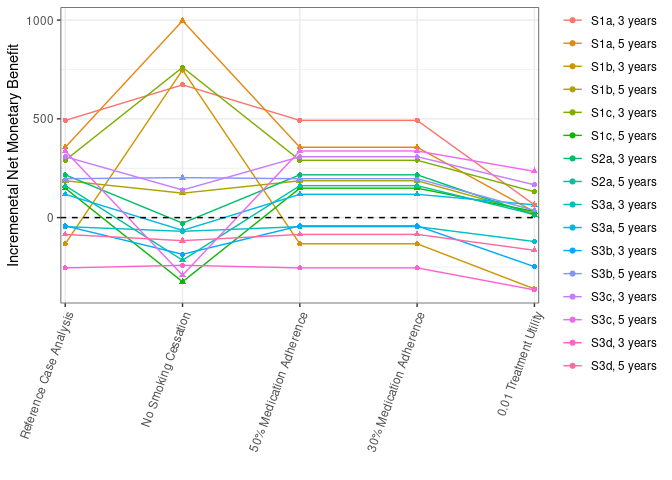
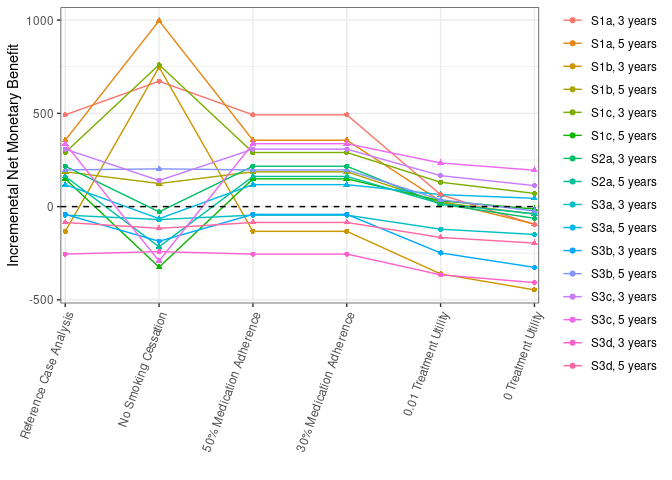
feat(reproduction): complete sensitivity analysis with 5e5 base_agents

diff --git a/reproduction/scripts/Process_Sensitivity_Analysis.md b/reproduction/scripts/Process_Sensitivity_Analysis.md
@@ -1,6 +1,6 @@
 Process Sensitivity Analysis Results
 ================
-10 September, 2024
+16 September, 2024
 
 This file processes results from the sensitivity analysis.
 
@@ -36,7 +36,13 @@ print(files)
     ##  [7] "Sen3_30_Med_Adherenceceplane_5y.csv"    
     ##  [8] "Sen3_30_Med_Adherenceceplane.csv"       
     ##  [9] "Sen4_01_Treat_Utilceplane_5y.csv"       
-    ## [10] "Sen4_01_Treat_Utilceplane.csv"
+    ## [10] "Sen4_01_Treat_Utilceplane.csv"          
+    ## [11] "Sen5_0_Treat_Utilceplane_5y.csv"        
+    ## [12] "Sen5_0_Treat_Utilceplane.csv"           
+    ## [13] "Sen6_0_Discountceplane_5y.csv"          
+    ## [14] "Sen6_0_Discountceplane.csv"             
+    ## [15] "Sen7_3_Discountceplane_5y.csv"          
+    ## [16] "Sen7_3_Discountceplane.csv"
 
 ## Combine into a single dataframe
 
@@ -54,7 +60,11 @@ labels <- list(
   "Sen4_01_Treat_Utilceplane.csv" = "util01",
   "Sen4_01_Treat_Utilceplane_5y.csv" = "util01",
   "Sen5_0_Treat_Utilceplane.csv" = "util0",
-  "Sen5_0_Treat_Utilceplane_5y.csv" = "util0"
+  "Sen5_0_Treat_Utilceplane_5y.csv" = "util0",
+  "Sen6_0_Discountceplane.csv" = "discount0",
+  "Sen6_0_Discountceplane_5y.csv" = "discount0",
+  "Sen7_3_Discountceplane.csv" = "discount3",
+  "Sen7_3_Discountceplane_5y.csv" = "discount3"
 )
 ```
 
@@ -92,10 +102,44 @@ res_list <- lapply(files, get_result)
 
 # Combine into single dataframe
 res <- do.call(rbind, res_list)
+```
 
-# Create list to define order of analyses, and to give labels for each scenario
-# from the sensitivity analysis
-analysis <- list(
+## Define function to create figures
+
+``` r
+make_figure <- function(analysis){
+  #' Create Figure 4 or Appendix 7 from Johnson et al. 2021
+  #' 
+  #' @param analysis list where keys are category from the Analysis column,
+  #' and values are labels for each key
+
+  # Create dataframe for plotting
+  to_plot <- res %>%
+    filter(Analysis %in% names(analysis)) %>%
+    # Create a column with the labelled scenario
+    mutate(AnalysisFull = recode(Analysis, !!!analysis)) %>%
+    # Make the analysis column a factor (to fix order in the plots)
+    mutate(AnalysisFull = factor(AnalysisFull, levels=unlist(unname(analysis))))
+  
+  # Create plot
+  ggplot(to_plot, aes(x=AnalysisFull, y=INMB,
+                      group=Scen_Yrs, shape=Years, color=Scen_Yrs)) +
+    geom_line() +
+    geom_point() +
+    geom_hline(yintercept=0, linetype="dashed") +
+    xlab("") +
+    ylab("Incremenetal Net Monetary Benefit") +
+    scale_x_discrete(expand = c(0.01,0)) +
+    theme_bw() +
+    theme(axis.text.x = element_text(angle=70, hjust=1),
+          legend.title = element_blank())
+}
+```
+
+## Figure 4
+
+``` r
+fig4_analysis <- list(
   "ref" = "Reference Case Analysis",
   "smoke" = "No Smoking Cessation",
   "med50" = "50% Medication Adherence",
@@ -104,27 +148,21 @@ analysis <- list(
   "util0" = "0 Treatment Utility"
 )
 
-# Create a column with the labelled scenario
-res <- res %>%
-  mutate(AnalysisFull = recode(Analysis, !!!analysis))
-
-# Make the analysis column a factor (to fix order in the plots)
-res$AnalysisFull <- factor(res$AnalysisFull, levels=unlist(unname(analysis)))
-```
-
-## Figure 4
-
-``` r
-ggplot(res, aes(x=AnalysisFull, y=INMB, group=Scen_Yrs, shape=Years, color=Scen_Yrs)) +
-  geom_line() +
-  geom_point() +
-  geom_hline(yintercept=0, linetype="dashed") +
-  xlab("") +
-  ylab("Incremenetal Net Monetary Benefit") +
-  scale_x_discrete(expand = c(0.01,0)) +
-  theme_bw() +
-  theme(axis.text.x = element_text(angle=70, hjust=1),
-        legend.title = element_blank())
+make_figure(fig4_analysis)
 ```
 
 ![](../outputs/fig4-1.png)<!-- -->
+
+## Appendix 7
+
+``` r
+apx7_analysis <- list(
+  "ref" = "Reference Case Analysis",
+  "discount0" = "0% Discount Rate",
+  "discount3" = "3% Discount Rate"
+)
+
+make_figure(apx7_analysis)
+```
+
+![](../outputs/appendix7-1.png)<!-- -->
